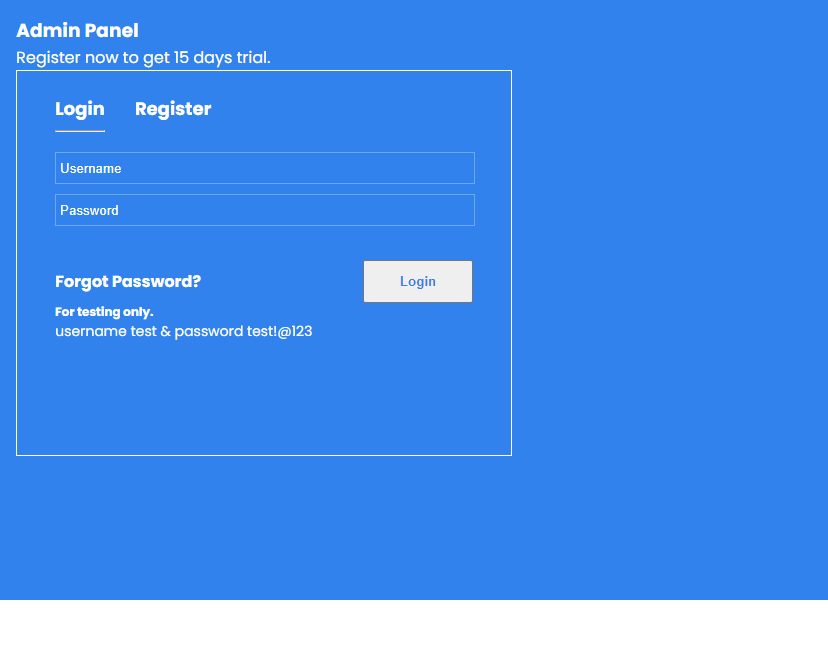
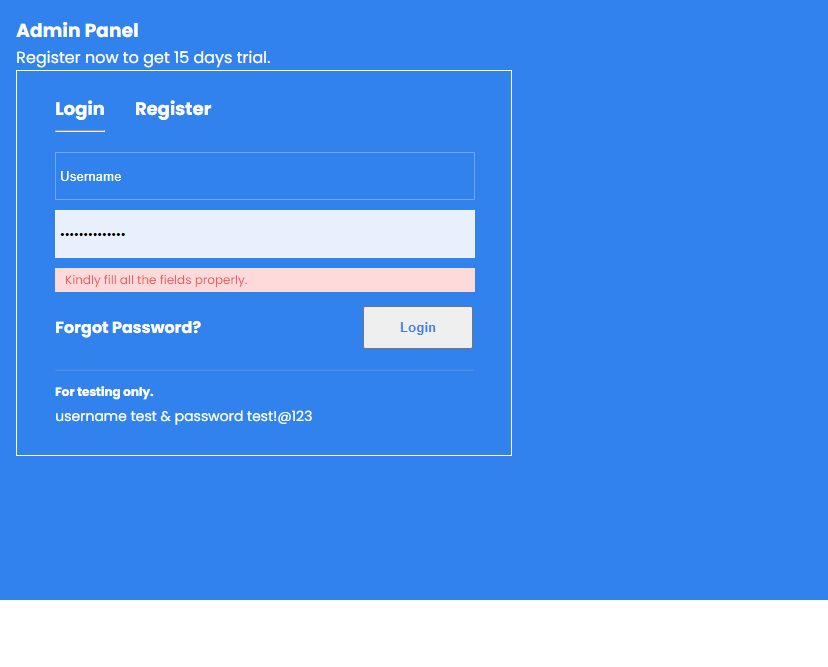
style: notes & misc styled in Login

Changed region(s): [[0.0604, 0.2399, 0.5737, 0.5397], [0.0604, 0.5697, 0.3925, 0.6297]]

diff --git a/src/features/Home/_components/Intro/Form/_components/Login/login.module.css b/src/features/Home/_components/Intro/Form/_components/Login/login.module.css
@@ -3,6 +3,7 @@
 }
 
 .login .error-banner-container {
+  margin-bottom: 0.875rem;
   height: 1.5rem;
 }
 
@@ -10,6 +11,7 @@
   display: flex;
   justify-content: space-between;
   align-items: center;
+  margin-bottom: 1.25rem;
 }
 
 .login .buttons-container p {
@@ -18,7 +20,13 @@
   user-select: none;
 }
 
+.login .notes hr {
+  border-color: hsla(var(--white), 0.1);
+  margin-bottom: 0.75rem;
+}
+
 .login .notes h3 {
+  margin-bottom: 0.313rem;
   font-size: 12px;
 }
 

diff --git a/src/features/Home/_components/Intro/Form/_components/Login/Login.tsx b/src/features/Home/_components/Intro/Form/_components/Login/Login.tsx
@@ -102,6 +102,7 @@ const Login: FC<ILoginProps> = (props) => {
         />
       </div>
       <div className={styles['notes']}>
+        <hr />
         <h3>For testing only.</h3>
         <p>username test & password test!@123</p>
       </div>

diff --git a/src/components/FormElements/Input/input.module.css b/src/components/FormElements/Input/input.module.css
@@ -2,7 +2,7 @@
   margin-bottom: 0.625rem;
   border: 1px solid hsla(var(--white), 0.3);
   padding: 4px;
-  height: 2rem;
+  height: 3rem;
   width: 26.25rem;
   color: hsl(var(--white));
   background-color: transparent;
